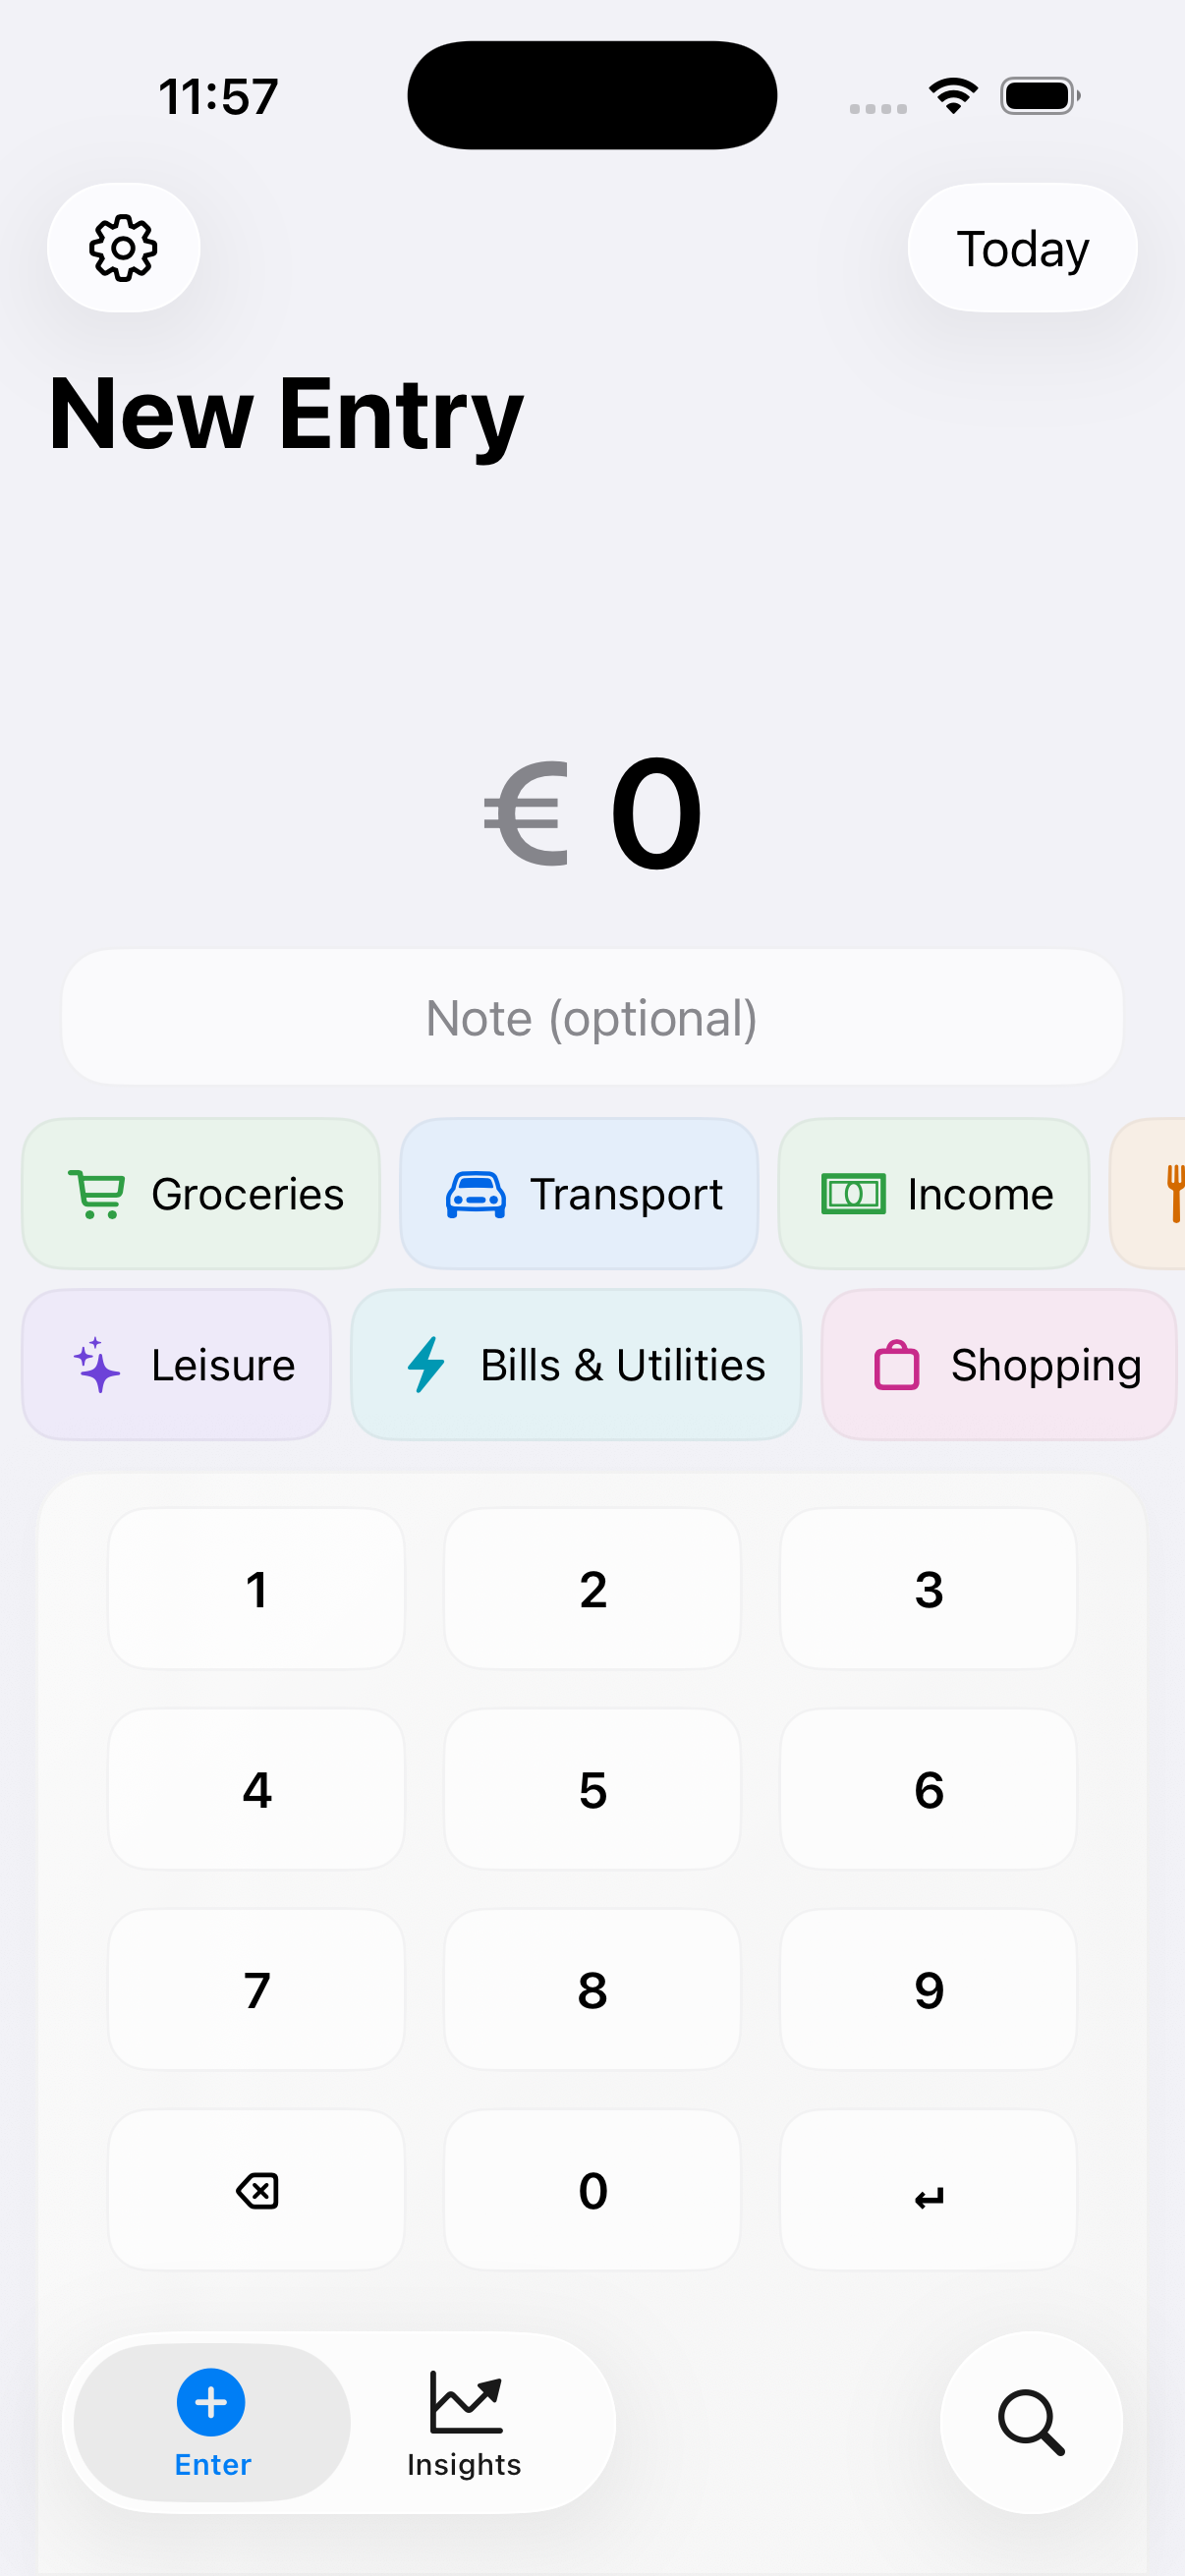
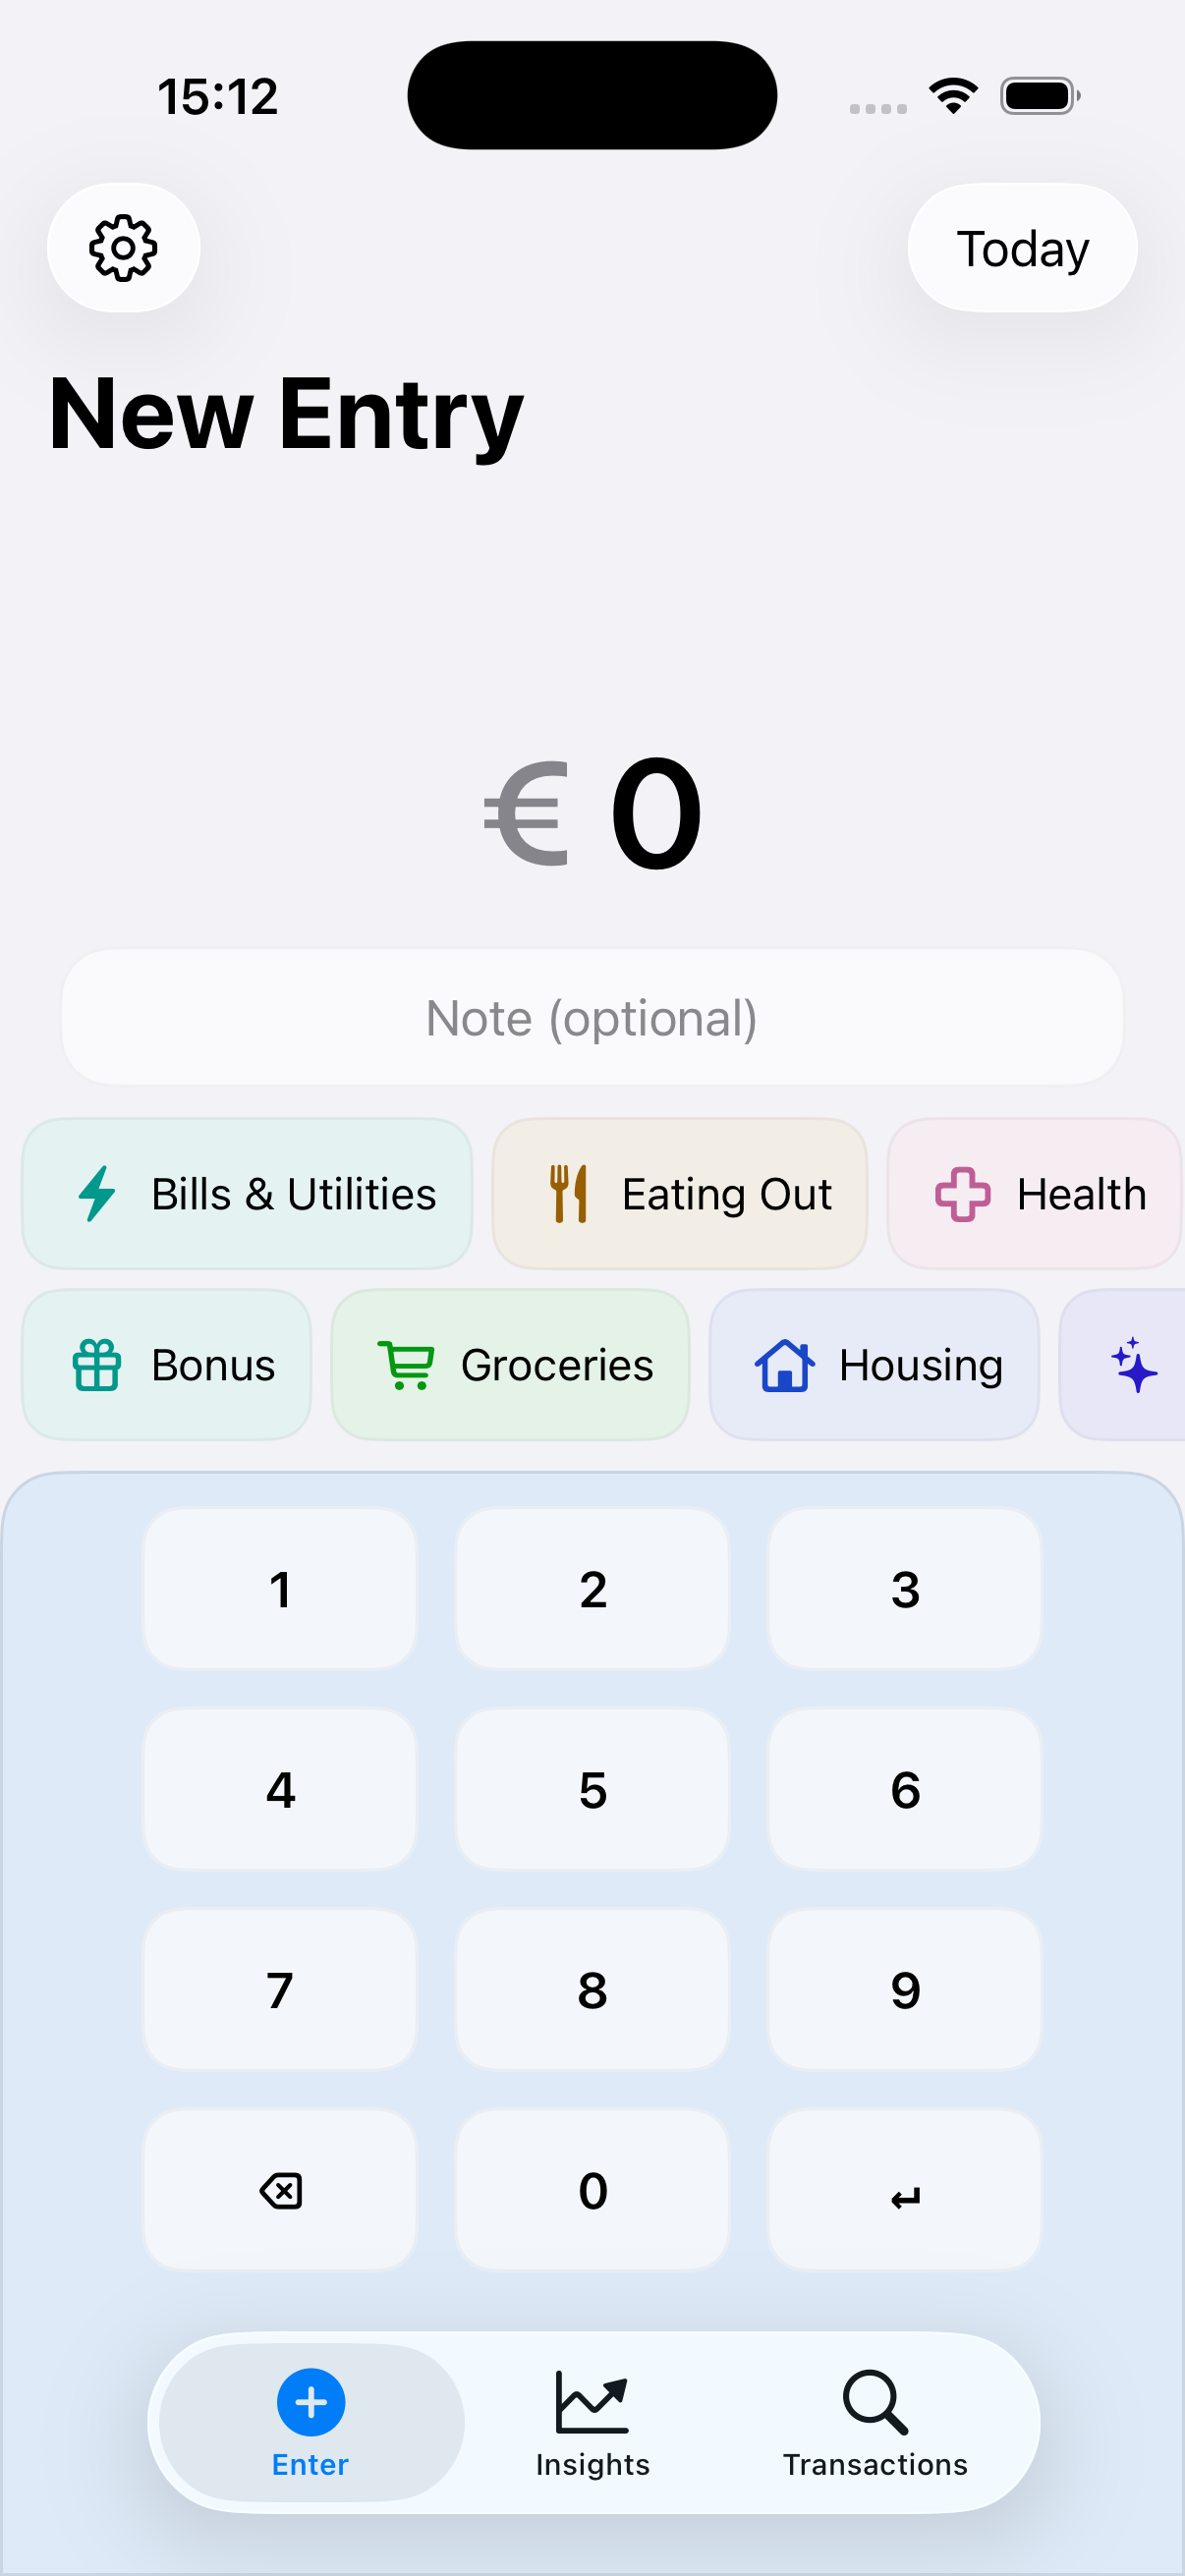
Update Moniq screenshots for 0.12, add widgets/iCloud sync to site
Refresh the hero screenshots to the current UI (Overview/Categories
split, redesigned Transactions) shown in both light and dark mode.
Add widgets and optional iCloud sync to the features list and privacy
pills, and update the privacy policy's iCloud section now that sync
has shipped instead of being a future item.

diff --git a/moniq/index.html b/moniq/index.html
@@ -189,8 +189,8 @@
       margin: 0 auto;
       padding: 48px 24px 80px;
       display: grid;
-      grid-template-columns: 1fr 1fr 1fr;
-      gap: 24px;
+      grid-template-columns: 1fr 1fr 1fr 1fr;
+      gap: 20px;
       align-items: start;
       justify-items: center;
     }
@@ -244,13 +244,14 @@
       margin: 0 auto;
       padding: 56px 24px;
       display: grid;
-      grid-template-columns: repeat(4, 1fr);
+      grid-template-columns: repeat(3, 1fr);
+      row-gap: 40px;
     }
     .feat {
       padding: 0 24px;
       border-left: 1px solid var(--hair);
     }
-    .feat:first-child { border-left: none; padding-left: 0; }
+    .feat:nth-child(3n+1) { border-left: none; padding-left: 0; }
     .feat-glyph { width: 24px; height: 24px; margin-bottom: 16px; color: var(--ink); }
     .feat-t { font-size: 16px; font-weight: 600; margin-bottom: 6px; letter-spacing: -0.01em; }
     .feat-d { font-size: 13.5px; color: var(--ink-2); line-height: 1.55; }
@@ -369,18 +370,22 @@
     </div>
   </section>
 
-  <!-- Three screens: Enter · Insights · Transactions -->
+  <!-- Four screens: Enter · Overview · Categories · Transactions (light + dark) -->
   <section class="stage" aria-label="App screenshots">
     <div class="phone tilt-up">
-      <img class="shot" src="assets/screen-enter.png?v=20260424" alt="Moniq — Enter screen showing a new entry with category tiles and a numeric keypad">
+      <img class="shot" src="assets/screen-enter.png?v=20260724" alt="Moniq — Enter screen in light mode showing a new entry with category tiles and a numeric keypad">
       <div class="phone-label">Enter</div>
     </div>
     <div class="phone">
-      <img class="shot" src="assets/screen-insights.png?v=20260424" alt="Moniq — Insights screen showing monthly income, expenses, savings, budget targets, and cash flow">
-      <div class="phone-label">Insights</div>
+      <img class="shot" src="assets/screen-overview.png?v=20260724" alt="Moniq — Overview screen in light mode showing monthly needs, wants, and savings against targets">
+      <div class="phone-label">Overview</div>
     </div>
     <div class="phone tilt-up">
-      <img class="shot" src="assets/screen-transactions.png?v=20260424" alt="Moniq — Transactions screen listing upcoming and past expenses for April 2026">
+      <img class="shot" src="assets/screen-categories.png?v=20260724" alt="Moniq — Categories screen in dark mode showing spending trends and category breakdowns">
+      <div class="phone-label">Categories</div>
+    </div>
+    <div class="phone">
+      <img class="shot" src="assets/screen-transactions.png?v=20260724" alt="Moniq — Transactions screen in dark mode listing upcoming and recent expenses">
       <div class="phone-label">Transactions</div>
     </div>
   </section>
@@ -406,9 +411,19 @@
         <div class="feat-d">Subscriptions, rent, regular income — set them once, forget about them.</div>
       </div>
       <div class="feat">
+        <svg class="feat-glyph" viewBox="0 0 24 24" fill="none" stroke="currentColor" stroke-width="1.6" stroke-linecap="round" stroke-linejoin="round"><rect x="3" y="3" width="8" height="8" rx="2"/><rect x="13" y="3" width="8" height="8" rx="2"/><rect x="3" y="13" width="8" height="8" rx="2"/><rect x="13" y="13" width="8" height="8" rx="2"/></svg>
+        <div class="feat-t">Widgets at a glance</div>
+        <div class="feat-d">Spending and savings targets right on your Home Screen or Lock Screen.</div>
+      </div>
+      <div class="feat">
         <svg class="feat-glyph" viewBox="0 0 24 24" fill="none" stroke="currentColor" stroke-width="1.6" stroke-linecap="round" stroke-linejoin="round"><rect x="3" y="11" width="18" height="11" rx="2"/><path d="M7 11V7a5 5 0 0110 0v4"/></svg>
         <div class="feat-t">Local & private</div>
         <div class="feat-d">No accounts. No logins. No tracking. Your data belongs to you.</div>
+      </div>
+      <div class="feat">
+        <svg class="feat-glyph" viewBox="0 0 24 24" fill="none" stroke="currentColor" stroke-width="1.6" stroke-linecap="round" stroke-linejoin="round"><path d="M18 10h-1.26A8 8 0 109 20h9a5 5 0 000-10z"/></svg>
+        <div class="feat-t">Optional iCloud sync</div>
+        <div class="feat-d">Sync across your devices if you want to. Off by default, private to you.</div>
       </div>
       <div class="feat">
         <svg class="feat-glyph" viewBox="0 0 24 24" fill="none" stroke="currentColor" stroke-width="1.6" stroke-linecap="round" stroke-linejoin="round"><path d="M21 15v4a2 2 0 01-2 2H5a2 2 0 01-2-2v-4"/><path d="M17 8l-5-5-5 5"/><path d="M12 3v12"/></svg>
@@ -428,6 +443,7 @@
       <span class="pill">No ads</span>
       <span class="pill">Free forever</span>
       <span class="pill">CSV import &amp; export</span>
+      <span class="pill">Optional iCloud sync</span>
     </div>
   </section>
 </main>

diff --git a/moniq/privacy.html b/moniq/privacy.html
@@ -67,12 +67,12 @@
 </nav>
 
 <h1>Privacy Policy</h1>
-<p class="meta">Last updated: April 23, 2026</p>
+<p class="meta">Last updated: July 24, 2026</p>
 
-<p>Short version: your data is never sent to us or any third party.</p>
+<p>Short version: your data is never sent to us or any third party. If you turn on the optional iCloud sync, your data syncs only to your own private iCloud account — never to us.</p>
 
 <h2>Data storage</h2>
-<p>All data you enter into <span data-brand>Moniq</span> — transactions, categories, budgets, settings — is stored locally on your device using Apple's on-device storage. No data is transmitted to any server or third party.</p>
+<p>By default, all data you enter into <span data-brand>Moniq</span> — transactions, categories, budgets, settings — is stored locally on your device using Apple's on-device storage. No data is transmitted to any server or third party unless you turn on the optional iCloud sync described below.</p>
 
 <h2>No account required</h2>
 <p><span data-brand>Moniq</span> does not require you to create an account, sign in, or provide any personal information.</p>
@@ -82,13 +82,14 @@
 <p><span data-brand>Moniq</span> uses Apple's MetricsKit framework, which provides iOS apps with aggregated, anonymised performance and crash diagnostics collected by the operating system. This data is gathered by Apple — not by us — and we receive only aggregate summaries. Individual user data is never accessible through MetricsKit.</p>
 
 <h2>Third parties</h2>
-<p><span data-brand>Moniq</span> does not share any data with third parties. There are no integrations with external services that access your financial data.</p>
+<p><span data-brand>Moniq</span> does not share any data with third parties. There are no integrations with external services that access your financial data, other than the optional iCloud sync described below, which stores data only in your own private iCloud account under Apple's standard terms — never with us or anyone else.</p>
 
 <h2>Your control</h2>
 <p>You can export your data as a CSV file from within the app at any time. You can delete all app data using the reset option in settings. Uninstalling <span data-brand>Moniq</span> removes all associated data from your device.</p>
 
-<h2>iCloud</h2>
-<p><span data-brand>Moniq</span> may add iCloud support in a future update. Any sync would use Apple's encrypted infrastructure — your data would never pass through servers we operate.</p>
+<h2>iCloud sync (optional)</h2>
+<p><span data-brand>Moniq</span> offers an optional iCloud sync, off by default. If you turn it on in Settings, your data is mirrored to your own private CloudKit database using Apple's encrypted infrastructure and associated with your Apple ID. This data never passes through servers we operate and is never accessible to us — we cannot see, access, or download it.</p>
+<p>Turning sync back off stops new changes from syncing; data already synced remains in your private iCloud account until you remove it via your device's iCloud settings or delete the app's data. Manual CSV export and import work the same whether or not sync is enabled.</p>
 
 <h2>Children</h2>
 <p><span data-brand>Moniq</span> is not directed at children under 13 and does not knowingly collect information from children.</p>